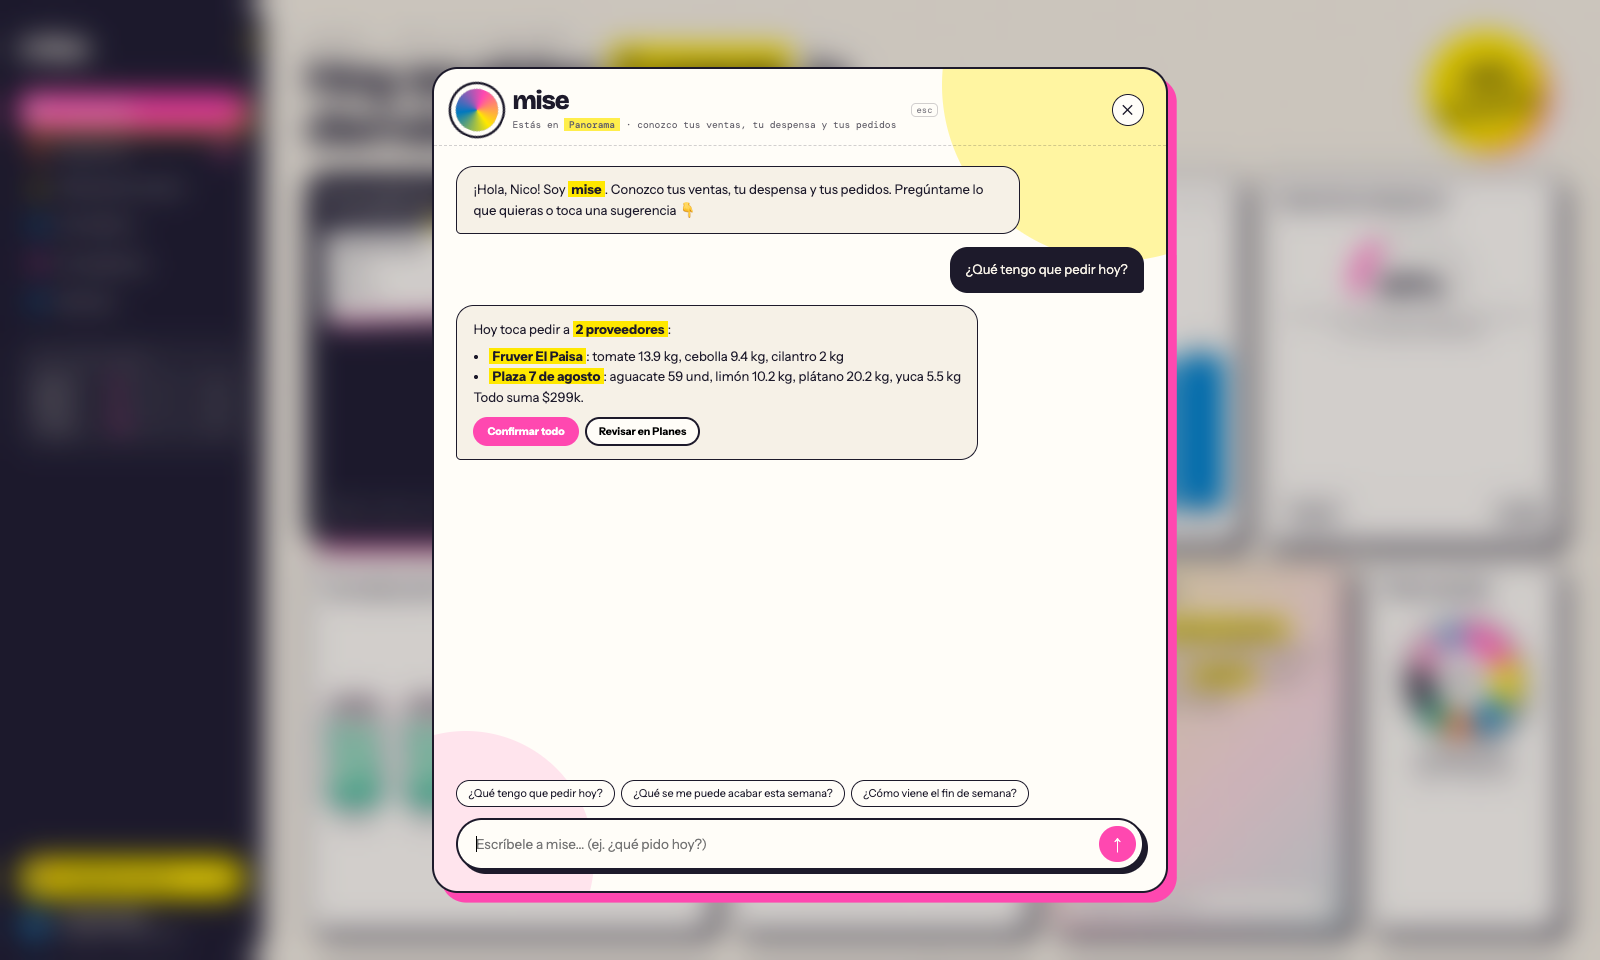
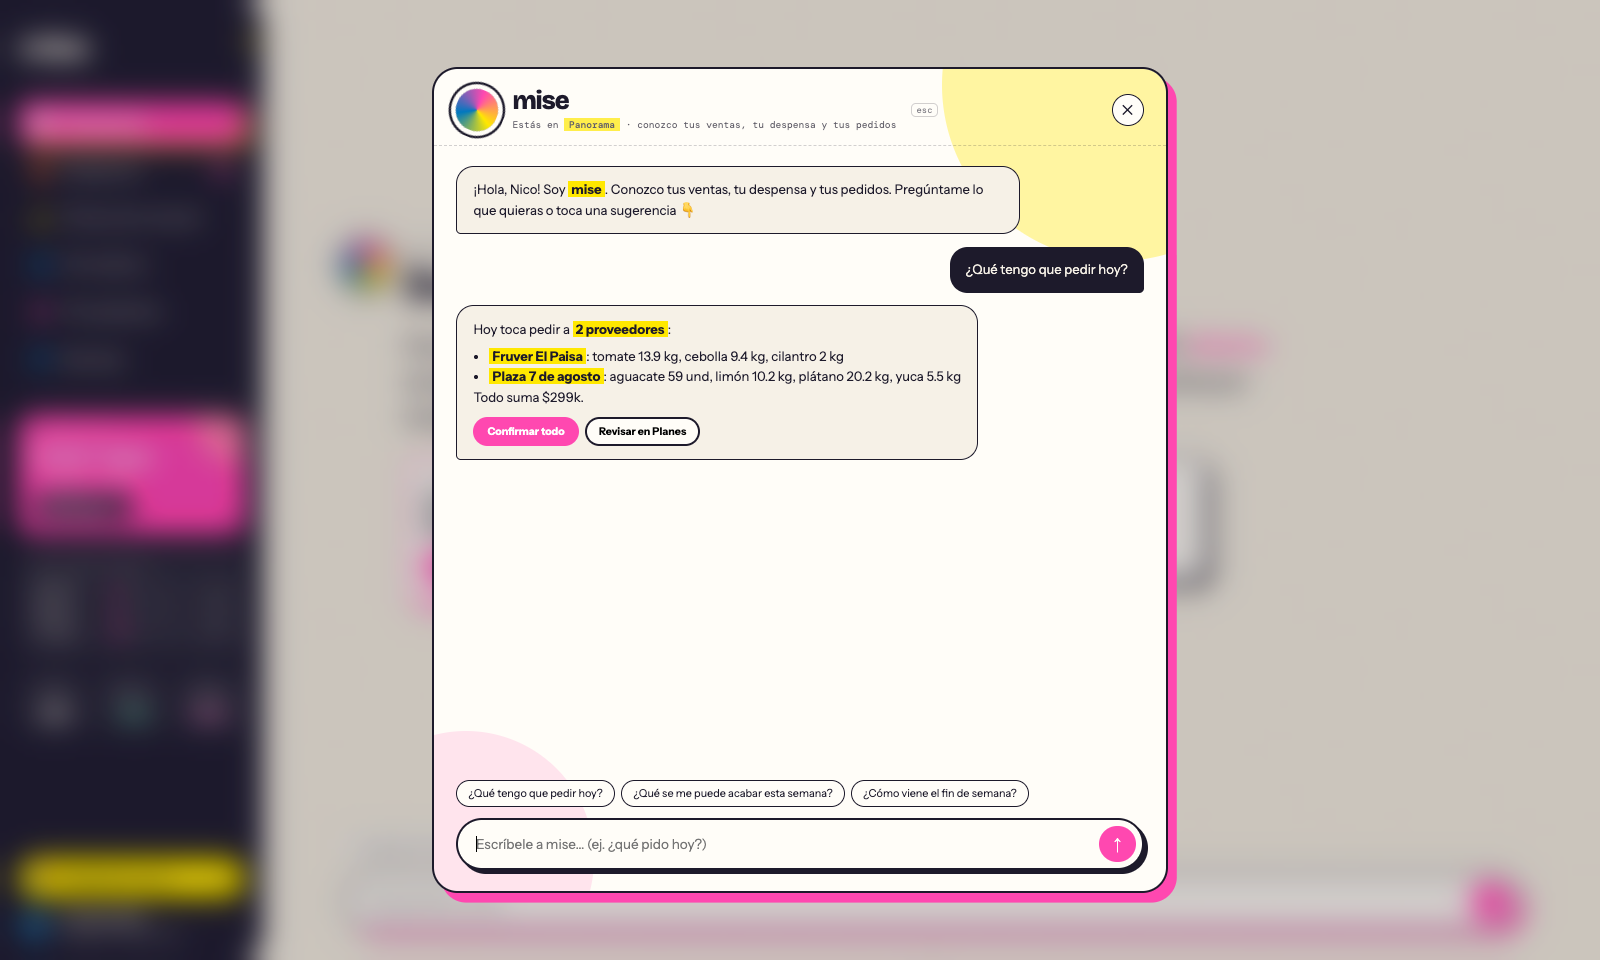
Rediseñar la barra lateral con pedido del día y métricas
La navegación vuelve arriba con más aire; debajo van la señal de
pedir ahora, lo que se acaba pronto y tres métricas de la semana.

diff --git a/docs/design/prototipo/mise-prototipo.html b/docs/design/prototipo/mise-prototipo.html
@@ -26,7 +26,7 @@
   .side { position:relative; z-index:6; width:16.5%; padding:2vw 1.2vw 1.2vw; background:var(--ink); color:var(--paper); border-radius:0 1.6vw 1.6vw 0; display:flex; flex-direction:column; flex:none; }
   .brand { font-family:'Bricolage Grotesque'; font-weight:800; font-size:2vw; letter-spacing:-.05em; line-height:1; position:relative; display:inline-block; }
   .brand::after { content:''; position:absolute; right:-.7vw; top:.3vw; width:.6vw; height:.6vw; border-radius:50%; background:var(--yl); }
-  .nav { list-style:none; display:flex; flex-direction:column; gap:.35vw; margin-top:auto; }
+  .nav { list-style:none; display:flex; flex-direction:column; gap:.4vw; margin-top:2.4vw; }
   .nav li { display:flex; align-items:center; gap:.8vw; font-size:1.05vw; font-weight:500; padding:.65vw .8vw; border-radius:.7vw; cursor:pointer; transition:.2s; opacity:.62; }
   .nav li:hover { opacity:1; background:#ffffff10; }
   .nav li.cur { opacity:1; background:var(--pk); color:#fff; font-weight:700; box-shadow:.25vw .25vw 0 var(--yl); }
@@ -36,13 +36,27 @@
   .ic.c{border-radius:50%} .ic.s{border-radius:.2vw} .ic.t{clip-path:polygon(50% 0,100% 100%,0 100%)} .ic.h{border-radius:50% 50% 0 0} .ic.d{transform:rotate(45deg) scale(.8);border-radius:.15vw} .ic.p{border-radius:50% 50% 50% 0}
   .ct { margin-left:auto; font-family:'DM Mono'; font-size:.6vw; padding:.05vw .4vw; border-radius:99px; background:var(--pk); color:#fff; }
   .nav li.cur .ct { background:var(--ink); }
-  .soon { margin-top:1.8vw; margin-bottom:auto; padding:.9vw; border-radius:1vw; background:#ffffff0d; }
+  .soon { margin-top:.8vw; padding:.9vw; border-radius:1vw; background:#ffffff0d; }
+  .side > * { flex-shrink:0; }
+  .sbhr { height:1px; background:#ffffff1a; margin:1.2vw .2vw 1vw; }
+  .sbped { padding:.9vw; border-radius:1vw; background:var(--pk); color:#fff; position:relative; overflow:hidden; cursor:pointer; transition:transform .2s; }
+  .sbped:hover { transform:translateY(-2px); }
+  .sbped::after { content:''; position:absolute; right:-1.6vw; top:-1.6vw; width:4.6vw; height:4.6vw; border-radius:50%; background:var(--yl); opacity:.35; mix-blend-mode:screen; }
+  .sbped .sect { opacity:.85; margin-bottom:.35vw; }
+  .sbped b { display:block; font-family:'Bricolage Grotesque'; font-weight:800; font-size:1.15vw; letter-spacing:-.03em; line-height:1.1; position:relative; z-index:1; }
+  .sbped small { display:block; font-family:'DM Mono'; font-size:.6vw; opacity:.9; margin-top:.25vw; position:relative; z-index:1; }
+  .sbped .go { display:inline-block; margin-top:.6vw; font-weight:700; font-size:.72vw; background:var(--ink); color:#fff; padding:.35vw .75vw; border-radius:99px; position:relative; z-index:1; }
+  .sbped.ok { background:#ffffff0d; color:var(--paper); } .sbped.ok::after { display:none; } .sbped.ok b { color:#6ee7b7; }
+  .sbmet { display:grid; grid-template-columns:repeat(3,1fr); gap:.4vw; margin-top:.8vw; }
+  .sbmet div { padding:.55vw .5vw; text-align:center; border-radius:.8vw; background:#ffffff0d; }
+  .sbmet small { display:block; font-family:'DM Mono'; font-size:.5vw; opacity:.6; line-height:1.3; }
+  .sbmet b { display:block; font-family:'Bricolage Grotesque'; font-weight:800; font-size:1vw; letter-spacing:-.03em; margin-top:.15vw; }
   .sect { font-family:'DM Mono'; font-size:.58vw; letter-spacing:.14em; text-transform:uppercase; opacity:.55; margin-bottom:.6vw; }
   .soon .it { display:flex; align-items:center; gap:.5vw; font-size:.74vw; margin-bottom:.45vw; }
   .soon .it .nm { width:4.4vw; } .soon .track { flex:1; height:.4vw; border-radius:99px; background:#ffffff1c; overflow:hidden; }
   .soon .track i { display:block; height:100%; border-radius:99px; background:var(--pk); transition:width .6s; }
   .soon .it .dd { font-family:'DM Mono'; font-size:.6vw; width:2.4vw; text-align:right; }
-  .grow { display:none; }
+  .grow { flex:1; min-height:1vw; }
   .askbtn { display:flex; align-items:center; gap:.6vw; font-size:.82vw; font-weight:600; padding:.7vw .9vw; border-radius:99px; background:var(--yl); color:var(--ink); margin:.8vw 0; }
   .orb { width:1.05vw; height:1.05vw; border-radius:50%; background:conic-gradient(var(--pk),var(--yl),var(--bl),var(--pk)); animation:spin 4s linear infinite; flex:none; }
   @keyframes spin { to { transform:rotate(360deg);} }
@@ -394,7 +408,10 @@
       <li data-v="proveedores"><span class="ic d" style="background:var(--pk)"></span>Proveedores</li>
       <li data-v="recetas"><span class="ic p" style="background:var(--bl)"></span>Recetas</li>
     </ul>
+    <div class="sbhr"></div>
+    <div class="sbped" id="sbPed"></div>
     <div class="soon"><div class="sect">● Se acaba pronto</div><div id="soonList"></div></div>
+    <div class="sbmet" id="sbMet"></div>
     <div class="grow"></div>
     <div class="askbtn" id="askOpen"><span class="orb"></span>Pregúntale a mise<kbd>⌘K</kbd></div>
     <div class="who"><span class="av">LO</span><div><b>La Olla de Nico</b><span>Chapinero · 64 platos/día</span></div></div>
@@ -598,6 +615,18 @@ function renderSide(){
   const low=[...I].sort((a,b)=>cov(a)-cov(b)).slice(0,3);
   document.getElementById('soonList').innerHTML=low.map(x=>`<div class="it"><span class="nm">${x.n}</span><span class="track"><i style="width:${Math.min(100,cov(x)/10*100)}%"></i></span><span class="dd">${r1(cov(x))} d</span></div>`).join('');
   const nLow=I.filter(x=>cov(x)<2.5).length; document.getElementById('ctLow').textContent=nLow;
+  const vis=planes.filter(p=>p.estado!=='descartado'), pend=vis.filter(p=>p.dia===0&&p.estado!=='confirmado');
+  const tot=ps=>ps.reduce((s,p)=>s+p.items.reduce((a,it)=>a+it.q*byId[it.id].precio,0),0);
+  const ped=document.getElementById('sbPed');
+  ped.className='sbped'+(pend.length?'':' ok');
+  ped.innerHTML=pend.length?`<div class="sect">● Pedir hoy</div><b>${pend.map(p=>PROV[p.prov].n.split(' ')[0]).join(' + ')}</b><small>${pend.reduce((s,p)=>s+p.items.length,0)} insumos · ${money(tot(pend))}</small><span class="go">Pedir ahora →</span>`
+    :`<div class="sect">● Pedir hoy</div><b>Todo pedido ✓</b><small>${vis.filter(p=>p.dia>0&&p.estado!=='confirmado').length} comandas para los próximos días</small>`;
+  ped.onclick=()=>{ if(pend.length){ selP=planes.indexOf(pend[0]); } document.querySelector('.nav li[data-v="planes"]').click(); };
+  const conf=id=>planes.filter(p=>p.estado==='confirmado').reduce((s,p)=>s+p.items.filter(it=>it.id===id).reduce((a,it)=>a+it.q,0),0);
+  const salud=Math.round(I.filter(x=>cov(x)+conf(x.id)/x.cons>=7).length/I.length*100);
+  const wk=Array.from({length:7},(_,d)=>platos(d)).reduce((a,b)=>a+b,0);
+  const dPct=Math.round((tot(vis)/1900000-1)*100);
+  document.getElementById('sbMet').innerHTML=`<div><small>platos semana</small><b>${wk}</b></div><div><small>compras vs pasada</small><b style="color:${dPct<=0?'#6ee7b7':'#ff8fcf'}">${dPct>0?'+':'−'}${Math.abs(dPct)}%</b></div><div><small>despensa cubierta</small><b style="color:${salud>=75?'#6ee7b7':salud>=50?'var(--yl)':'#ff8fcf'}">${salud}%</b></div>`;
 }
 
 /* ================== DESPENSA ================== */

diff --git a/index.html b/index.html
@@ -28,7 +28,7 @@
   .side { position:relative; z-index:6; width:16.5%; padding:2vw 1.2vw 1.2vw; background:var(--ink); color:var(--paper); border-radius:0 1.6vw 1.6vw 0; display:flex; flex-direction:column; flex:none; }
   .brand { font-family:'Bricolage Grotesque'; font-weight:800; font-size:2vw; letter-spacing:-.05em; line-height:1; position:relative; display:inline-block; }
   .brand::after { content:''; position:absolute; right:-.7vw; top:.3vw; width:.6vw; height:.6vw; border-radius:50%; background:var(--yl); }
-  .nav { list-style:none; display:flex; flex-direction:column; gap:.35vw; margin-top:auto; }
+  .nav { list-style:none; display:flex; flex-direction:column; gap:.4vw; margin-top:2.4vw; }
   .nav li { display:flex; align-items:center; gap:.8vw; font-size:1.05vw; font-weight:500; padding:.65vw .8vw; border-radius:.7vw; cursor:pointer; transition:.2s; opacity:.62; }
   .nav li:hover { opacity:1; background:#ffffff10; }
   .nav li.cur { opacity:1; background:var(--pk); color:#fff; font-weight:700; box-shadow:.25vw .25vw 0 var(--yl); }
@@ -38,13 +38,27 @@
   .ic.c{border-radius:50%} .ic.s{border-radius:.2vw} .ic.t{clip-path:polygon(50% 0,100% 100%,0 100%)} .ic.h{border-radius:50% 50% 0 0} .ic.d{transform:rotate(45deg) scale(.8);border-radius:.15vw} .ic.p{border-radius:50% 50% 50% 0}
   .ct { margin-left:auto; font-family:'DM Mono'; font-size:.6vw; padding:.05vw .4vw; border-radius:99px; background:var(--pk); color:#fff; }
   .nav li.cur .ct { background:var(--ink); }
-  .soon { margin-top:1.8vw; margin-bottom:auto; padding:.9vw; border-radius:1vw; background:#ffffff0d; }
+  .soon { margin-top:.8vw; padding:.9vw; border-radius:1vw; background:#ffffff0d; }
+  .side > * { flex-shrink:0; }
+  .sbhr { height:1px; background:#ffffff1a; margin:1.2vw .2vw 1vw; }
+  .sbped { padding:.9vw; border-radius:1vw; background:var(--pk); color:#fff; position:relative; overflow:hidden; cursor:pointer; transition:transform .2s; }
+  .sbped:hover { transform:translateY(-2px); }
+  .sbped::after { content:''; position:absolute; right:-1.6vw; top:-1.6vw; width:4.6vw; height:4.6vw; border-radius:50%; background:var(--yl); opacity:.35; mix-blend-mode:screen; }
+  .sbped .sect { opacity:.85; margin-bottom:.35vw; }
+  .sbped b { display:block; font-family:'Bricolage Grotesque'; font-weight:800; font-size:1.15vw; letter-spacing:-.03em; line-height:1.1; position:relative; z-index:1; }
+  .sbped small { display:block; font-family:'DM Mono'; font-size:.6vw; opacity:.9; margin-top:.25vw; position:relative; z-index:1; }
+  .sbped .go { display:inline-block; margin-top:.6vw; font-weight:700; font-size:.72vw; background:var(--ink); color:#fff; padding:.35vw .75vw; border-radius:99px; position:relative; z-index:1; }
+  .sbped.ok { background:#ffffff0d; color:var(--paper); } .sbped.ok::after { display:none; } .sbped.ok b { color:#6ee7b7; }
+  .sbmet { display:grid; grid-template-columns:repeat(3,1fr); gap:.4vw; margin-top:.8vw; }
+  .sbmet div { padding:.55vw .5vw; text-align:center; border-radius:.8vw; background:#ffffff0d; }
+  .sbmet small { display:block; font-family:'DM Mono'; font-size:.5vw; opacity:.6; line-height:1.3; }
+  .sbmet b { display:block; font-family:'Bricolage Grotesque'; font-weight:800; font-size:1vw; letter-spacing:-.03em; margin-top:.15vw; }
   .sect { font-family:'DM Mono'; font-size:.58vw; letter-spacing:.14em; text-transform:uppercase; opacity:.55; margin-bottom:.6vw; }
   .soon .it { display:flex; align-items:center; gap:.5vw; font-size:.74vw; margin-bottom:.45vw; }
   .soon .it .nm { width:4.4vw; } .soon .track { flex:1; height:.4vw; border-radius:99px; background:#ffffff1c; overflow:hidden; }
   .soon .track i { display:block; height:100%; border-radius:99px; background:var(--pk); transition:width .6s; }
   .soon .it .dd { font-family:'DM Mono'; font-size:.6vw; width:2.4vw; text-align:right; }
-  .grow { display:none; }
+  .grow { flex:1; min-height:1vw; }
   .askbtn { display:flex; align-items:center; gap:.6vw; font-size:.82vw; font-weight:600; padding:.7vw .9vw; border-radius:99px; background:var(--yl); color:var(--ink); margin:.8vw 0; }
   .orb { width:1.05vw; height:1.05vw; border-radius:50%; background:conic-gradient(var(--pk),var(--yl),var(--bl),var(--pk)); animation:spin 4s linear infinite; flex:none; }
   @keyframes spin { to { transform:rotate(360deg);} }
@@ -392,7 +406,10 @@
       <li data-v="proveedores"><span class="ic d" style="background:var(--pk)"></span>Proveedores</li>
       <li data-v="recetas"><span class="ic p" style="background:var(--bl)"></span>Recetas</li>
     </ul>
+    <div class="sbhr"></div>
+    <div class="sbped" id="sbPed"></div>
     <div class="soon"><div class="sect">● Se acaba pronto</div><div id="soonList"></div></div>
+    <div class="sbmet" id="sbMet"></div>
     <div class="grow"></div>
     <div class="askbtn" id="askOpen"><span class="orb"></span>Pregúntale a mise<kbd>⌘K</kbd></div>
     <div class="who"><span class="av">LO</span><div><b>La Olla de Nico</b><span>Chapinero · 64 platos/día</span></div></div>
@@ -592,6 +609,18 @@ function renderSide(){
   const low=[...I].sort((a,b)=>cov(a)-cov(b)).slice(0,3);
   document.getElementById('soonList').innerHTML=low.map(x=>`<div class="it"><span class="nm">${x.n}</span><span class="track"><i style="width:${Math.min(100,cov(x)/10*100)}%"></i></span><span class="dd">${r1(cov(x))} d</span></div>`).join('');
   const nLow=I.filter(x=>cov(x)<2.5).length; document.getElementById('ctLow').textContent=nLow;
+  const vis=planes.filter(p=>p.estado!=='descartado'), pend=vis.filter(p=>p.dia===0&&p.estado!=='confirmado');
+  const tot=ps=>ps.reduce((s,p)=>s+p.items.reduce((a,it)=>a+it.q*byId[it.id].precio,0),0);
+  const ped=document.getElementById('sbPed');
+  ped.className='sbped'+(pend.length?'':' ok');
+  ped.innerHTML=pend.length?`<div class="sect">● Pedir hoy</div><b>${pend.map(p=>PROV[p.prov].n.split(' ')[0]).join(' + ')}</b><small>${pend.reduce((s,p)=>s+p.items.length,0)} insumos · ${money(tot(pend))}</small><span class="go">Pedir ahora →</span>`
+    :`<div class="sect">● Pedir hoy</div><b>Todo pedido ✓</b><small>${vis.filter(p=>p.dia>0&&p.estado!=='confirmado').length} comandas para los próximos días</small>`;
+  ped.onclick=()=>{ if(pend.length){ selP=planes.indexOf(pend[0]); } document.querySelector('.nav li[data-v="planes"]').click(); };
+  const conf=id=>planes.filter(p=>p.estado==='confirmado').reduce((s,p)=>s+p.items.filter(it=>it.id===id).reduce((a,it)=>a+it.q,0),0);
+  const salud=Math.round(I.filter(x=>cov(x)+conf(x.id)/x.cons>=7).length/I.length*100);
+  const wk=Array.from({length:7},(_,d)=>platos(d)).reduce((a,b)=>a+b,0);
+  const dPct=Math.round((tot(vis)/1900000-1)*100);
+  document.getElementById('sbMet').innerHTML=`<div><small>platos semana</small><b>${wk}</b></div><div><small>compras vs pasada</small><b style="color:${dPct<=0?'#6ee7b7':'#ff8fcf'}">${dPct>0?'+':'−'}${Math.abs(dPct)}%</b></div><div><small>despensa cubierta</small><b style="color:${salud>=75?'#6ee7b7':salud>=50?'var(--yl)':'#ff8fcf'}">${salud}%</b></div>`;
 }
 
 /* ================== DESPENSA ================== */
